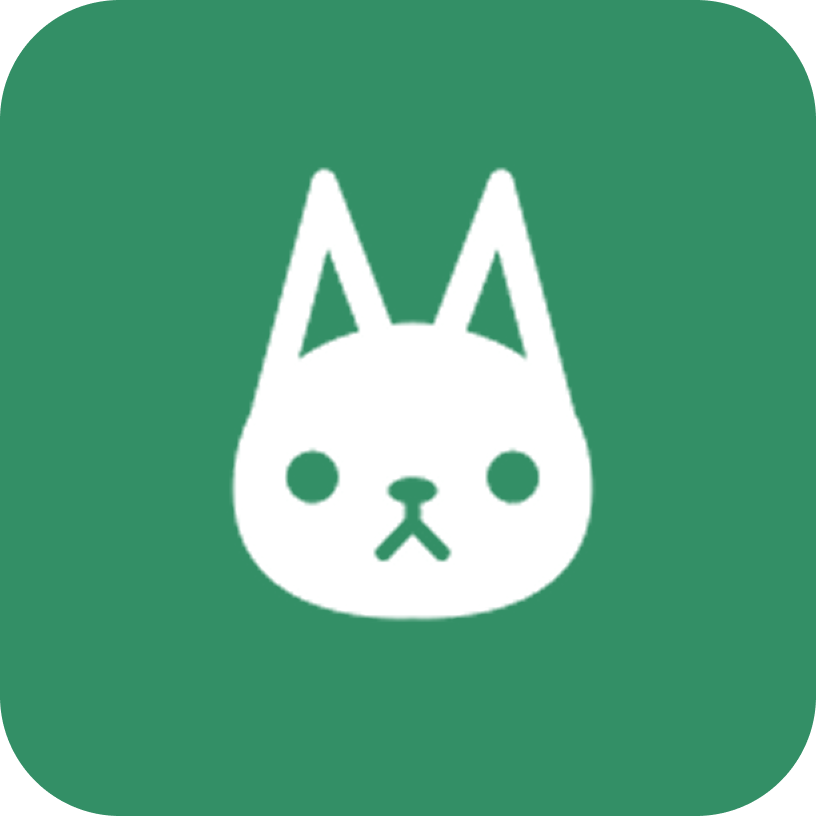
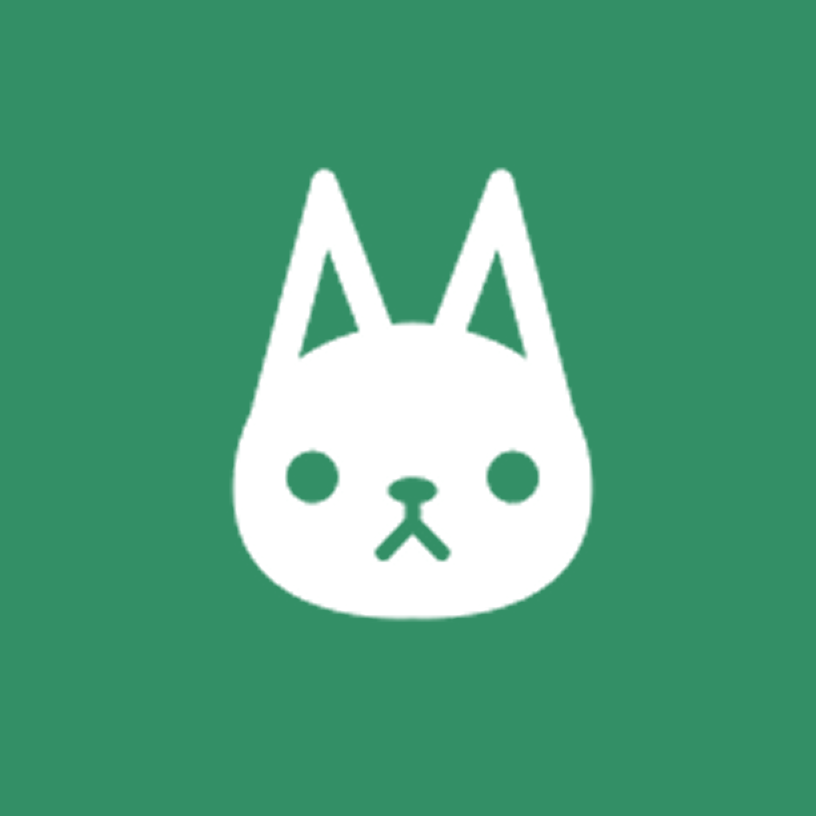
feat(album): dynamic render in My Album page

diff --git a/frontend/src/routes/album.jsx b/frontend/src/routes/album.jsx
@@ -1,4 +1,5 @@
 import { createFileRoute } from "@tanstack/react-router";
+import { useEffect, useState } from "react";
 import "../styles/album.css";
 import arrowLeft from "../assets/arrow-left.png";
 import arrowRight from "../assets/arrow-right.png";
@@ -6,17 +7,54 @@ import Sticker from "../components/sticker";
 import missingSticker from "../assets/missing-sticker.png";
 
 export const Route = createFileRoute("/album")({
-  component: () => (
+  component: Album,
+});
+
+function Album() {
+  const [stickers, setStickers] = useState([]);
+  const currentUserEmail = "[email redacted]";
+  useEffect(() => {
+    const fetchAlbum = async () => {
+      try {
+        const response = await fetch(
+          `http://localhost:5000/album/${currentUserEmail}`,
+        );
+        if (!response.ok) throw new Error("Erro ao carregar dados do álbum");
+
+        const data = await response.json();
+        setStickers(data);
+      } catch (error) {
+        console.error(error);
+      }
+    };
+
+    fetchAlbum();
+  }, [currentUserEmail]);
+
+  return (
     <main>
       <h2 className="chip">Bird</h2>
 
       <div className="stickers">
-        <Sticker
-          name="Piper"
-          gender="female"
-          image={missingSticker}
-          description="The peppy bird"
-        />
+        {stickers.map((sticker) => {
+          // Verifica se o usuário tem a figurinha (quantidade maior que 0)
+          const isOwned = sticker.amount > 0;
+
+          return (
+            <Sticker
+              key={sticker.number}
+              name={isOwned ? sticker.name : "???"}
+              gender={isOwned ? sticker.gender : "???"}
+              image={isOwned ? sticker.image_url : missingSticker}
+              description={
+                isOwned
+                  ? `The ${sticker.personality} ${sticker.species}`
+                  : "???"
+              }
+              amount={sticker.amount} // Corrigido de 'amout' para 'amount' e passando o valor dinâmico
+            />
+          );
+        })}
       </div>
 
       <div className="pagination">
@@ -29,5 +67,5 @@ export const Route = createFileRoute("/album")({
         </div>
       </div>
     </main>
-  ),
-});
+  );
+}

diff --git a/backend/index.js b/backend/index.js
@@ -56,6 +56,35 @@ app.get("/stats/:email", async (req, res) => {
   }
 });
 
+// Rota para buscar o álbum completo cruzado com a coleção do usuário
+app.get("/album/:email", async (req, res) => {
+  const userEmail = req.params.email;
+
+  // O LEFT JOIN garante que TODAS as figurinhas do catálogo apareçam,
+  // mesmo que o usuário tenha 0 delas na tabela Collect.
+  const query = `
+    SELECT 
+      s.number,
+      s.name,
+      s.species,
+      s.personality,
+      s.gender,
+      s.url AS image_url,
+      COALESCE(c.amount, 0)::int AS amount
+    FROM Stickers s
+    LEFT JOIN Collect c ON s.number = c.number AND c.email = $1
+    ORDER BY s.number ASC;
+  `;
+
+  try {
+    const result = await db.query(query, [userEmail]);
+    res.json(result.rows);
+  } catch (err) {
+    console.error("Erro ao carregar o álbum:", err);
+    res.status(500).json({ error: "Erro ao carregar o álbum de figurinhas." });
+  }
+});
+
 app.post("/add", async (req, res) => {
   const item = req.body.item;
   try {

diff --git a/frontend/src/components/sticker.jsx b/frontend/src/components/sticker.jsx
@@ -6,13 +6,20 @@ function Sticker(props) {
   return (
     <div className="sticker">
       <img src={props.image} alt="image URL" />
-      <div className="card chip">
+      <div
+        className={"card chip"}
+        style={{
+          backgroundColor: props.amount > 0 ? "var(--text)" : "var(--primary)",
+        }}
+      >
         <div className="name_gender">
           <h3>{props.name}</h3>
-          <img
-            src={props.gender === "female" ? female : male}
-            alt={props.gender}
-          ></img>
+          {props.amount > 0 ? (
+            <img
+              src={props.gender === "female" ? female : male}
+              alt={props.gender}
+            ></img>
+          ) : null}
         </div>
         <p className="description">{props.description}</p>
       </div>

diff --git a/frontend/src/styles/album.css b/frontend/src/styles/album.css
@@ -1,12 +1,20 @@
 .stickers {
   display: flex;
+  flex-wrap: wrap;
   gap: 20px;
   margin: 50px 50px 0 50px;
-  justify-content: space-between;
+  justify-content: start;
+  max-width: 80vw;
+}
+
+.sticker {
+  margin-left: 10px;
 }
 
 .sticker img {
   width: 204px;
+  border-top-left-radius: 30px;
+  border-top-right-radius: 30px;
 }
 
 .sticker .card {